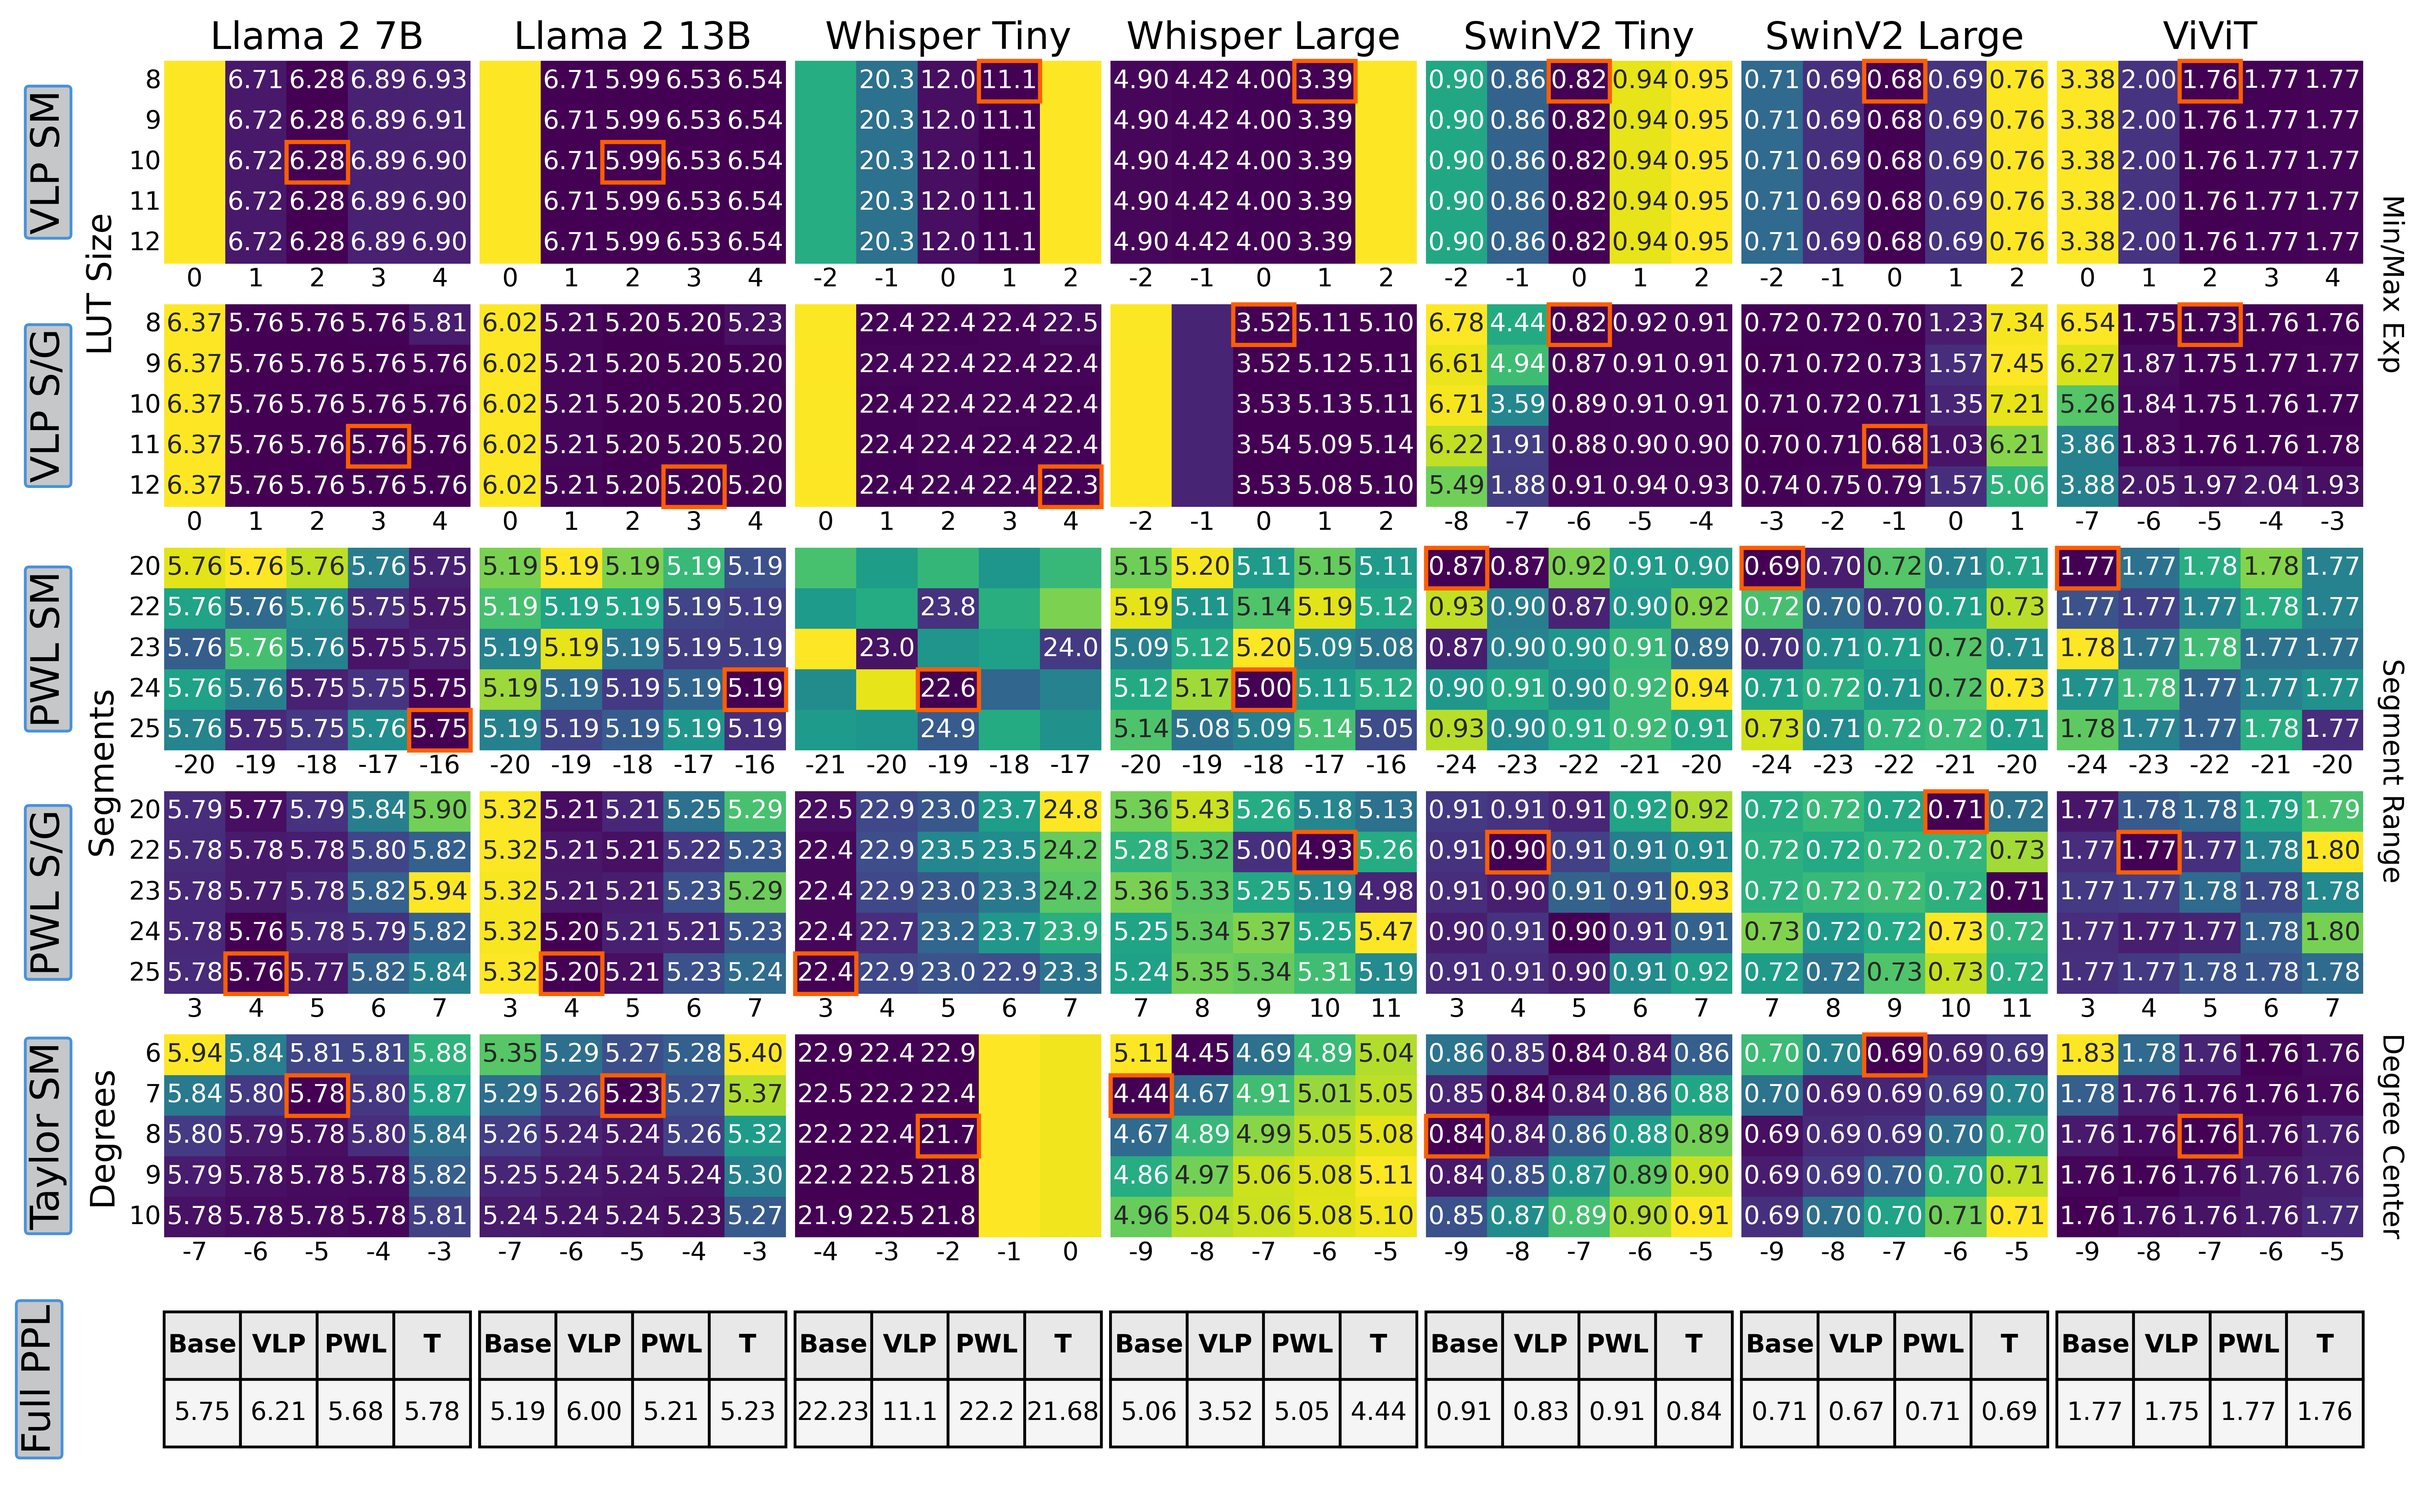
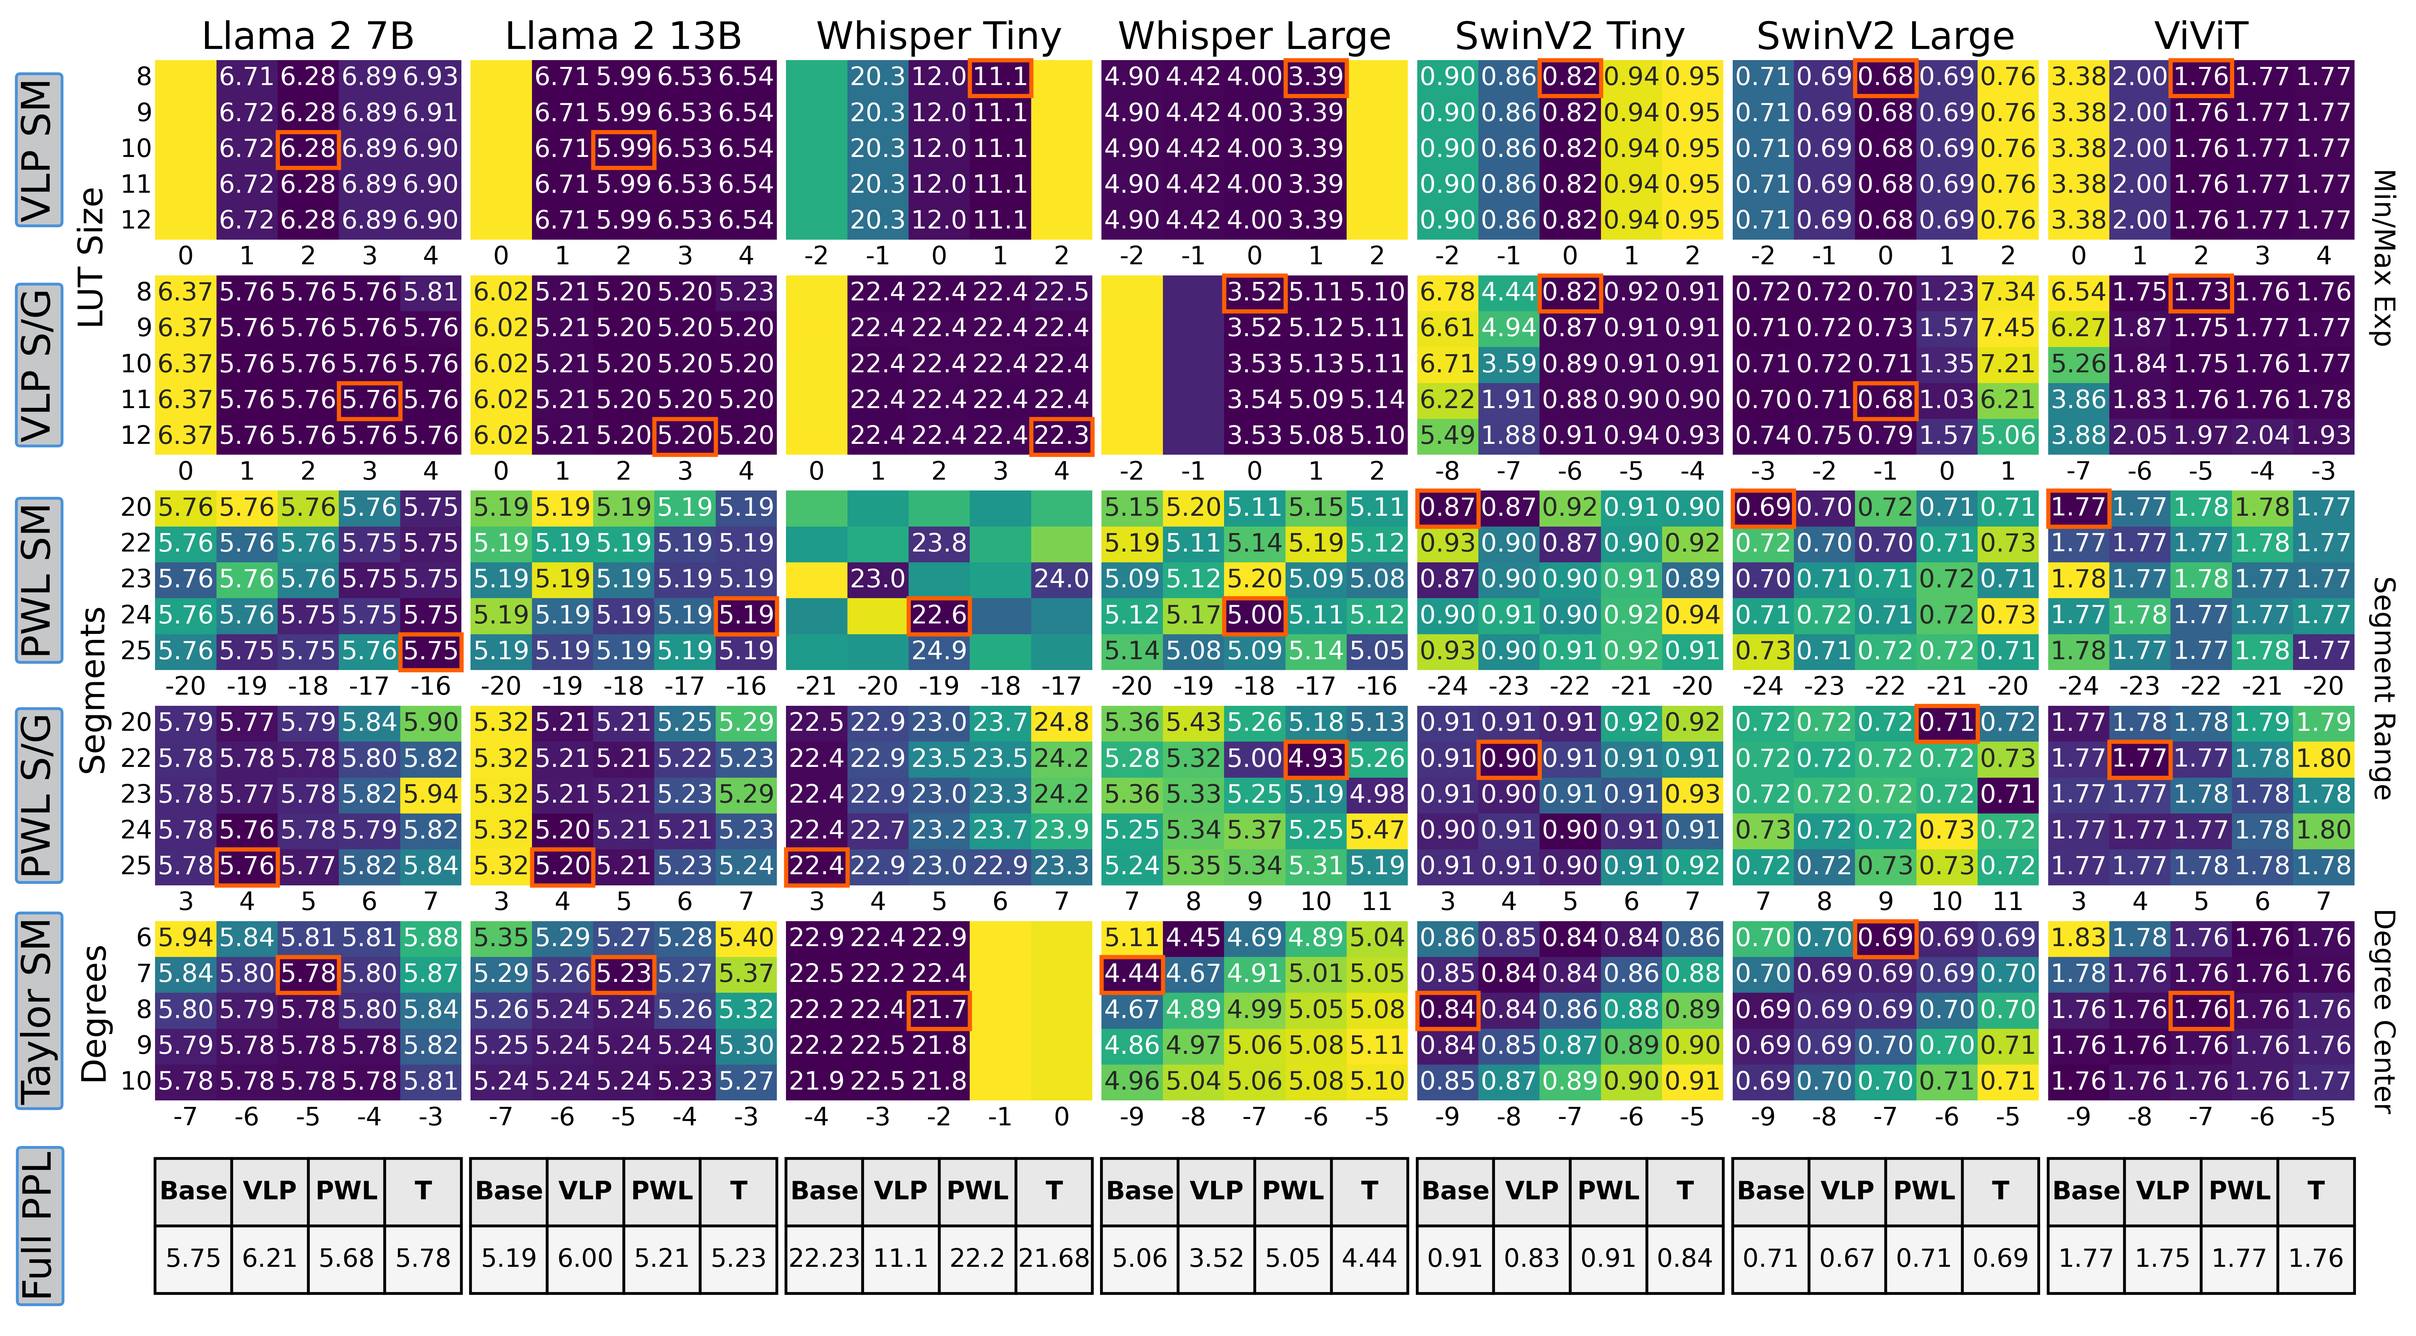
update

Changed region(s): [[0.0, 0.0, 0.9976, 0.9944], [0.9664, 0.6837, 0.9976, 0.7458]]

diff --git a/perplexity_figure.py b/perplexity_figure.py
@@ -62,7 +62,7 @@ def plot_perplexity(data_dict: dict, highlight_color: str = 'red'):
 
     # Use the same per-axes size as single_heatmap, then scale by grid dimensions
     per_fig_width = 506 / 72.27
-    per_fig_height = per_fig_width * 0.65
+    per_fig_height = per_fig_width * 0.575
 
     fig, axes = plt.subplots(6, n_models, figsize=(per_fig_width, per_fig_height))
     # Ensure axes is always 2D for consistent indexing
@@ -544,7 +544,7 @@ def plot_perplexity(data_dict: dict, highlight_color: str = 'red'):
     # Add "Full PPL" label for the first column only (outside the loop)
     if len(data_dict) > 0:
         table_ax_first = axes[5, 0]  # First column table
-        fig.text(0.081, (table_ax_first.get_position().y0 + table_ax_first.get_position().y1) / 2,
+        fig.text(0.0845, (table_ax_first.get_position().y0 + table_ax_first.get_position().y1) / 2,
                 'Full PPL', fontsize=7, rotation=90, ha='center', va='center',
                 bbox=dict(boxstyle='round,pad=0.1', facecolor="#C5C7C9", edgecolor="#4A92DA", linewidth=0.5))
 
